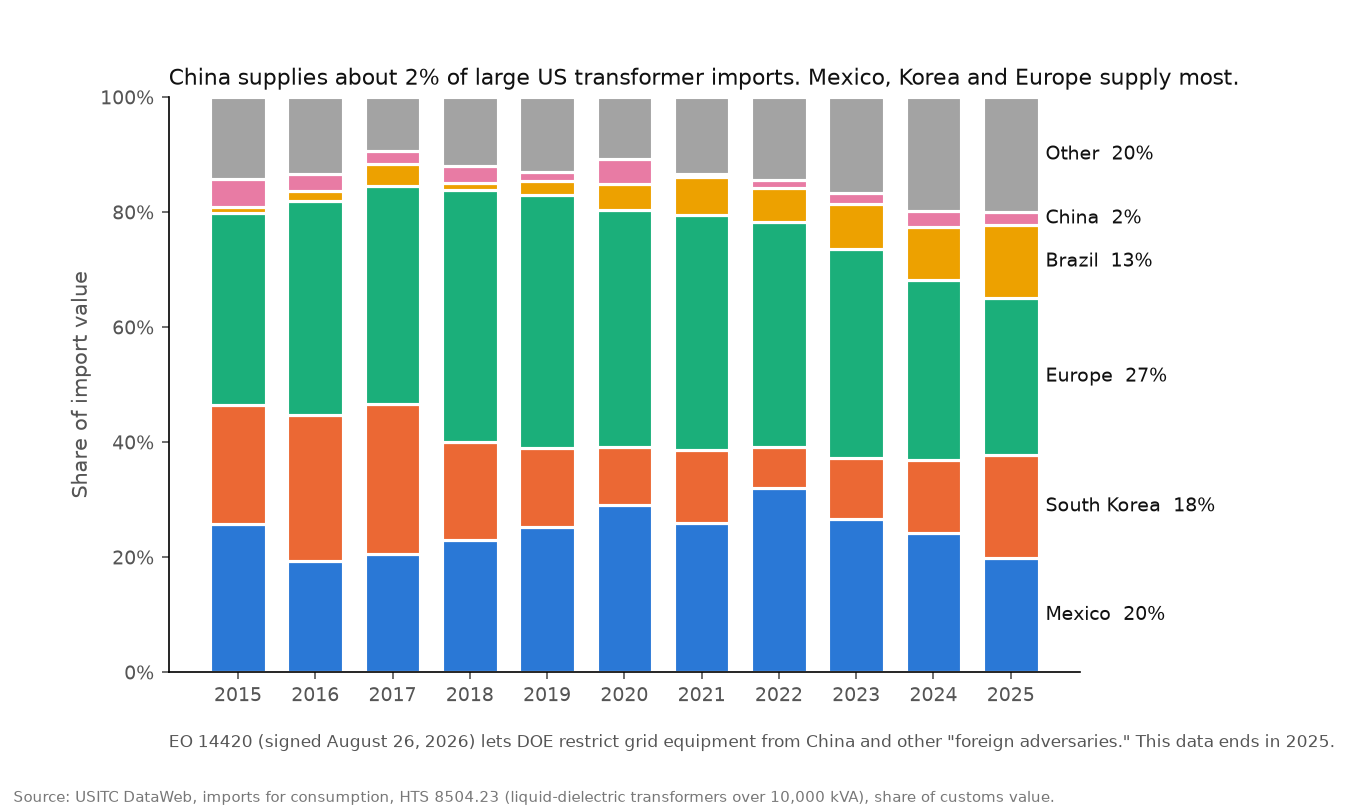
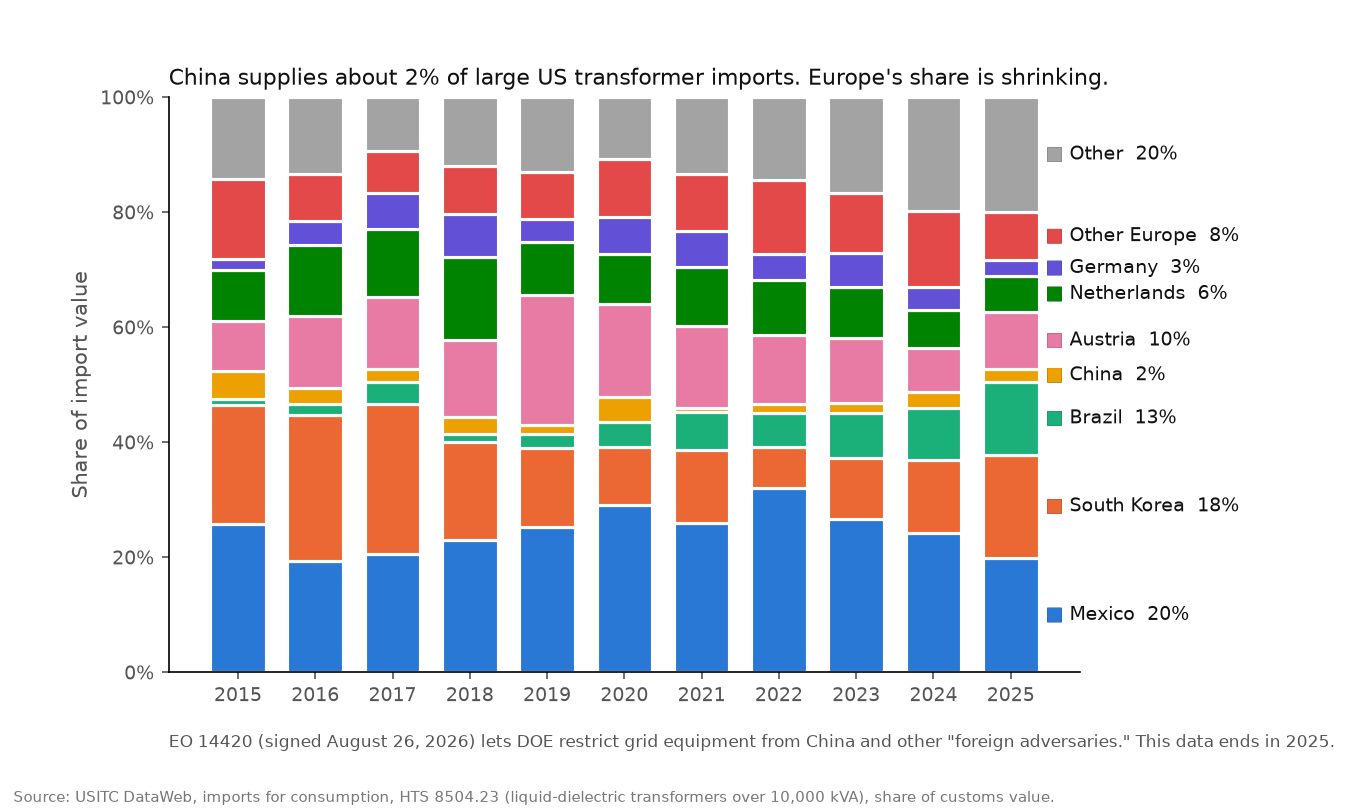
Split Europe into Austria, Netherlands, Germany in supplier chart

diff --git a/src/suppliers_tariffs.py b/src/suppliers_tariffs.py
@@ -24,13 +24,20 @@ EUROPE = {
     "Hungary", "Romania", "Slovenia", "Slovakia", "Switzerland", "United Kingdom",
     "Denmark", "Norway", "Ireland", "Greece", "Bulgaria", "Serbia",
 }
-# Fixed order and colors; color follows the group, not its rank
+# The three biggest European suppliers get their own group
+EUROPE_SPLIT = ("Austria", "Netherlands", "Germany")
+SOLO = ("Mexico", "South Korea", "Brazil", "China") + EUROPE_SPLIT
+# Fixed order and colors; color follows the group, not its rank. Stack order
+# keeps Europe together. Validated: adjacent pairs pass CVD and normal vision.
 GROUPS = [
     ("Mexico", "#2a78d6"),
     ("South Korea", "#eb6834"),
-    ("Europe", "#1baf7a"),
-    ("Brazil", "#eda100"),
-    ("China", "#e87ba4"),
+    ("Brazil", "#1baf7a"),
+    ("China", "#eda100"),
+    ("Austria", "#e87ba4"),
+    ("Netherlands", "#008300"),
+    ("Germany", "#6250d6"),
+    ("Other Europe", "#e34948"),
     ("Other", "#a3a3a3"),
 ]
 # Same entity colors as charts/price_index_2019.png
@@ -40,9 +47,9 @@ SIZES = [("small", "Small (≤650 kVA)", "#1baf7a"),
 
 
 def group_of(country: str) -> str:
-    if country in ("Mexico", "South Korea", "Brazil", "China"):
+    if country in SOLO:
         return country
-    return "Europe" if country in EUROPE else "Other"
+    return "Other Europe" if country in EUROPE else "Other"
 
 
 def style(ax, ylabel: str) -> None:
@@ -65,18 +72,26 @@ def supplier_share(d: pd.DataFrame) -> pd.DataFrame:
 def chart_share(share: pd.DataFrame, dest: Path) -> None:
     fig, ax = plt.subplots(figsize=(9, 5.4), dpi=150)
     bottom = pd.Series(0.0, index=share.index)
+    last = share.index[-1]
+    labels = []
     for g, color in GROUPS:
         ax.bar(share.index, share[g], bottom=bottom, color=color, width=0.72,
                edgecolor="white", linewidth=1.5)
-        last = share.index[-1]
-        ax.annotate(f"{g}  {share.loc[last, g]:.0f}%", (last + 0.45, bottom[last] + share.loc[last, g] / 2),
-                    va="center", fontsize=9, color=INK)
+        labels.append([g, color, bottom[last] + share.loc[last, g] / 2])
         bottom += share[g]
+    # Thin segments sit close together; push labels apart so they don't overlap
+    gap = 4.2
+    for i in range(1, len(labels)):
+        labels[i][2] = max(labels[i][2], labels[i - 1][2] + gap)
+    for g, color, y in labels:
+        ax.annotate(f"■ {g}  {share.loc[last, g]:.0f}%", (last + 0.45, y), va="center",
+                    fontsize=9, color=INK)
+        ax.annotate("■", (last + 0.45, y), va="center", fontsize=9, color=color)
     ax.set_xticks(list(share.index))
     ax.set_ylim(0, 100)
     ax.yaxis.set_major_formatter(lambda v, _: f"{v:.0f}%")
     style(ax, "Share of import value")
-    ax.set_title("China supplies about 2% of large US transformer imports. Mexico, Korea and Europe supply most.",
+    ax.set_title("China supplies about 2% of large US transformer imports. Europe's share is shrinking.",
                  loc="left", fontsize=10.5, color=INK)
     ax.text(0, -0.13, "EO 14420 (signed August 26, 2026) lets DOE restrict grid equipment from China and other "
             "\"foreign adversaries.\" This data ends in 2025.", transform=ax.transAxes, fontsize=8, color=INK_2)

diff --git a/log.md b/log.md
@@ -5,3 +5,4 @@
 - **2026-10-30 (Day 3, done).** Re-pulled at HTS 10 (`data/raw/dataweb_hts10.xlsx`); renamed the first pull to `dataweb_hts6_aggregated.xlsx`. Fixed the loader: Excel stores codes as floats. Checks: yearly totals match the aggregated pull exactly, and all nine 10-digit codes have data every year 2015 to 2025, so the large-unit split is consistent. Findings for large units (8504.23), 2019 to 2025: value $953M to $4.0B, units 1,208 to 4,954, but price per unit roughly flat ($789K to $810K). China's share 1.6% to 2.3%. Effective tariff 1.3% to 8.3% in 2025. Small units: price per unit $1.4K to $3.9K. Open question: why flat large-unit prices during a shortage? Ideas: contracts priced years before delivery, mix within the >100,000 kVA code. Check against the FRED PPI on Day 2. Next: Day 2 (FRED), then Day 4 unit-value charts.
 - **2026-10-30 (Day 2).** Pulled both FRED transformer PPIs into `data/raw`. The commodity series (WPU11740999) is missing 10 months of 2023 and 9 of 2024, so the chart uses the complete industry series (PCU335311335311); they track within a few points. Wrote `src/prices.py`, which builds a fixed-mix import price index (2019 weights on 10-digit codes). 2019 to 2025: US PPI +76%; imported small units +166%; imported large units +8%. Holding the mix fixed only moves large units from +3% to +8%, so mix isn't the explanation. Old-contract timing is still the main idea, and so is the gap between US-made and imported prices. Chart: `charts/price_index_2019.png`. Added a `.venv` and `requirements.txt`. Next: Day 4 to 5 charts (unit values, supplier shares, tariffs).
 - **2026-10-30 (Days 4 and 5).** Wrote `src/suppliers_tariffs.py`. Large-unit supplier shares, 2019 to 2025: Europe 44% to 27%, Mexico 25% to 20%, South Korea 14% to 18%, Brazil 2% to 13%, China 1.6% to 2.3%. Effective tariff stayed under 2% for every size through 2024, then jumped in 2025: large 8.3%, medium 7.1%, small 4.3%. 2025 large-unit rates by supplier: China 45%, Brazil 14%, Turkey 11%, Taiwan 11%, Austria 8%, Korea 6%, Mexico 3%, Canada 2%. Rates for Mexico and Canada are low but not zero; possibly non-USMCA entries. I haven't matched rates to specific tariff programs yet. Charts: `large_supplier_share.png`, `effective_tariff_by_size.png`, `effective_tariff_large_2025.png`. Next: Day 6, hyperscaler capex.
+- **2026-10-30 (Days 4 and 5, follow-up).** Split Europe in the supplier chart into Austria, Netherlands, Germany and Other Europe. 2019 to 2025: Austria 23% to 10%, Netherlands 9% to 6%, Germany 4% to 3%, Other Europe 8% to 8%. Most of Europe's drop is Austria. Austria's 2019 share looks like a one-year spike (13% in 2018, 16% in 2020).
